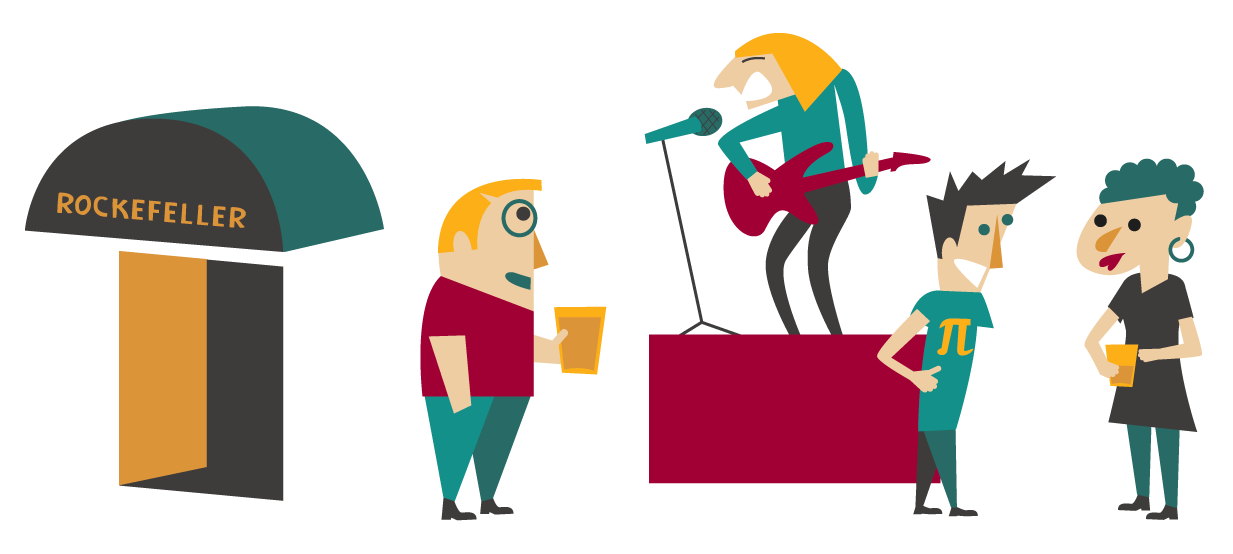
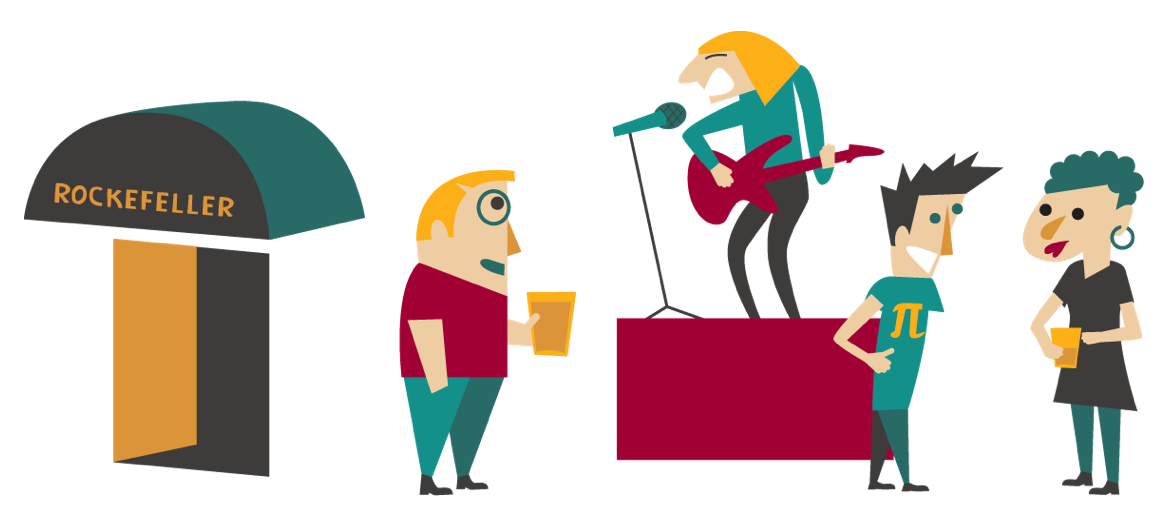
Mer mekking

diff --git a/frontend/content/info.html b/frontend/content/info.html
@@ -14,7 +14,7 @@
                 <span class="color3">Come join us for the adventure!</span>
             </h2>
             <p>Norway is a strange country. And so is our conferences! Every year a group of volunteers called javaBin comes together to create a different conference, something uniquely norwegian.</p>
-            <p>We invite <a href="/speakers.html">more than 150 speakers</a> to enlighten us for three full days. First one whole day dedicated to workhops, and then two full days with both full sessions and lightning talks. Want to see what all the fuss is about? Come join us then!</p>
+            <p>We invite <a href="/speakers.html">more than 150 speakers</a> to enlighten us for three full days. The first day is dedicated to workhops, then we have two full days with talks as well as workshops. Want to see what all the fuss is about? Well, come join us then!</p>
         </div>
         
 <!--         <p>Innhold her: Hva er JavaZone? Hvem kommer på JavaZone? Hvorfor skal man dra på JavaZone - "Whats in it for me?". Hvem lager JavaZone. Hvem er foredragsholderene?</p> -->
@@ -31,7 +31,7 @@
                 So you want to attend JavaZone? <br>
                 <span class="color2">That's awesome! Let's get you a ticket</span>
             </h2>
-            <p>The first step to heaven is to buy your JavaZone ticket. Either buy it yourself, ask your dear beloved boss, or ask the ticket-santa. Whomever buys it for you can buy it in our superfancy high-tech online web-2.0 webshop:</p>
+            <p>The first step to heaven is to buy your JavaZone ticket. Either buy it yourself, ask your dear beloved boss, or ask the ticket-santa. Whomever buys it can do so in our superfancy high-tech online web-2.0 ticketstore.</p>
             <div class="spacex"></div>
             <p>
                 <a href="/tickets.html" class="button"><i class="fa fa-star-o"></i> Buy your ticket now</a>
@@ -63,7 +63,7 @@
                 <span>Conference <br>sept. 11th</span>
             </a>
             <a class="salesbubble" href="#">
-                <span>Food during <br>conference</span>
+                <span>Food <br>bonanza</span>
             </a>
             <a class="salesbubble" href="#">
                 <span>Bragging <br>rights</span>
@@ -75,10 +75,62 @@
 
 
 <div class="tiles">
-    <div class="tile tile-big tile-ill tile-ill-full tile-color0"><div class="tile-inner">
-        <div class="illustration ill-3 animated fadeInDown"></div>
-        <h2 class="first">Flights, hotels, food, drinks… You know, all the practicalities!</h2>
-        <p>Innhold her: Alt av praktisk informasjon: hvor skal man bo, hvor er oslo/oslo spektrum, når/hvor/hva/hvem/hvordan?</p>
+    <div class="tile tile-big tile-ill tile-ill-full tile-color0 tile-pullupxx"><div class="tile-inner">
+        <div class="illustration ill-3"></div>
+        <h2 class="first color2 crazyheader">What, when, how, whyyy? You know, all the practicalities…</h2>
+        <div class="spacexx"></div>
+
+        <div class="infoboxes">
+            <div class="infobox infobox-small">
+                <div class="infobox-icon"><i class="fa fa-map-marker"></i></div>
+                <h3 class="color2">Where's the conference at, yo?</h3>
+                <p>The venue is literary a 2 minutes to walk from the main train station, bus station, trams and taxis (duh!)</p>
+                <p>Feeling lost? Use the <a href="http://reiseplanlegger.ruter.no/en">Travel planner</a>, choose "Oslo Spektrum" as the destination.</p>
+            </div>
+            <div class="infobox infobox-med">
+                <div class="infobox-icon"><i class="fa fa-cutlery"></i></div>
+                <h3 class="color2">"Uten mat og drikke, duger helten ikke"</h3>
+                <p>That's norwegian for "where can I get some food?". The nice thing about JavaZone is that we have the best food of any conference, ever! (we promise)</p>
+                <p>The Flying Culinary Circus are preparing food all day long. No queues, no price, all inclusive, all day long (from 10am)</p>
+            </div>
+            <div class="infobox infobox-small">
+                <div class="infobox-icon"><i class="fa fa-home"></i></div>
+                <h3 class="color2">When tired, where to sleep?</h3>
+                <p>There will be beanbags at the conference. If you prefer a hotel, there are plenty of them in the area around the conference center.</p>
+                <p>Just search for hotels near "Oslo Central Station", and you should be home free!</p>
+            </div>
+
+            <div class="infobox infobox-small">
+                <div class="infobox-icon"><i class="fa fa-cloud"></i></div>
+                <h3 class="color2">More practical info here</h3>
+                <p>The venue is literary a 2 minutes to walk from the main train station, bus station, trams and taxis (duh!)</p>
+                <p>Feeling lost? Use the <a href="http://reiseplanlegger.ruter.no/en">Travel planner</a>, choose "Oslo Spektrum" as the destination.</p>
+            </div>
+            <div class="infobox infobox-med">
+                <div class="infobox-icon"><i class="fa fa-calendar"></i></div>
+                <h3 class="color2">More practical info here</h3>
+                <p>That's norwegian for "where can I get some food?". The nice thing about JavaZone is that we have the best food of any conference, ever! (we promise)</p>
+                <p>The Flying Culinary Circus are preparing food all day long. No queues, no price, all inclusive, all day long (from 10am)</p>
+            </div>
+            <div class="infobox infobox-small">
+                <div class="infobox-icon"><i class="fa fa-comments"></i></div>
+                <h3 class="color2">More practical info here</h3>
+                <p>There will be beanbags at the conference. If you prefer a hotel, there are plenty of them in the area around the conference center.</p>
+                <p>Just search for hotels near "Oslo Central Station", and you should be home free!</p>
+            </div>
+        </div>
+
+
+<!--         <p>Innhold her: Alt av praktisk informasjon: hvor skal man bo, hvor er oslo/oslo spektrum, når/hvor/hva/hvem/hvordan?</p>
+        <p>Lorem ipsum dolor sit amet, consectetur adipiscing elit. Cras adipiscing orci condimentum, adipiscing est id, pellentesque enim. Nunc gravida porttitor eros sit amet placerat.</p> -->
+    </div></div>
+</div>
+
+<div class="tiles">
+    <div class="tile tile-big tile-ill tile-ill-right tile-color0"><div class="tile-inner">
+        <div class="illustration ill-4"></div>
+        <h2 class="first">Registration, badge, stuff like that!</h2>
+        <p>Innhold her: Hvordan henter man billetten? Når skal man møte opp? …</p>
         <p>Lorem ipsum dolor sit amet, consectetur adipiscing elit. Cras adipiscing orci condimentum, adipiscing est id, pellentesque enim. Nunc gravida porttitor eros sit amet placerat.</p>
     </div></div>
 </div>
@@ -89,17 +141,8 @@
     </a></div>
 
 <div class="tiles">
-    <div class="tile tile-big tile-ill tile-ill-right tile-color0"><div class="tile-inner">
-        <div class="illustration ill-4 animated bounceInRight"></div>
-        <h2 class="first">Registration, badge, stuff like that!</h2>
-        <p>Innhold her: Hvordan henter man billetten? Når skal man møte opp? …</p>
-        <p>Lorem ipsum dolor sit amet, consectetur adipiscing elit. Cras adipiscing orci condimentum, adipiscing est id, pellentesque enim. Nunc gravida porttitor eros sit amet placerat.</p>
-    </div></div>
-</div>
-
-<div class="tiles">
     <div class="tile tile-big tile-ill tile-ill-full tile-color0"><div class="tile-inner">
-        <div class="illustration ill-5 animated bounceInDown"></div>
+        <div class="illustration ill-5"></div>
         <h2 class="first">Faglig innhold: Foredrag, program, apps,  språk, lyntaler...</h2>
         <p>Innhold her: Hva er det faglige innholdet på JavaZone? Hvor finner jeg program? Når lanseres programmet? Hva er en lyntale? hva er greia med foredrag på både norsk og engelsk?</p>
         <p>Lorem ipsum dolor sit amet, consectetur adipiscing elit. Cras adipiscing orci condimentum, adipiscing est id, pellentesque enim. Nunc gravida porttitor eros sit amet placerat.</p>
@@ -110,7 +153,7 @@
 
 <div class="tiles">
     <div class="tile tile-big tile-ill tile-ill-right tile-color0"><div class="tile-inner">
-        <div class="illustration ill-6 animated bounceInRight"></div>
+        <div class="illustration ill-6"></div>
         <h2 class="first">Workshops er et relativt nytt konsept...</h2>
         <p>Innhold her: Hva er workshops? hvorfor må man melde seg på? hvor mange plasser har vi? Er det inkludert i prisen? Hva hvis jeg ikke får plass. Osv…</p>
         <p>Lorem ipsum dolor sit amet, consectetur adipiscing elit. Cras adipiscing orci condimentum, adipiscing est id, pellentesque enim. Nunc gravida porttitor eros sit amet placerat.</p>
@@ -120,7 +163,7 @@
 
 <div class="tiles">
     <div class="tile tile-big tile-ill tile-ill-full tile-color0"><div class="tile-inner">
-        <div class="illustration ill-7 animated bounceInLeft"></div>
+        <div class="illustration ill-7"></div>
         <h2 class="first">Work hard, party hard!</h2>
         <p>Innhold her: JavaZone-festen i etterkant av konferansen! Band og øl og morro! Hvor, når, hvordan, billett (inkludert), infoinfoinfo…</p>
         <p>Lorem ipsum dolor sit amet, consectetur adipiscing elit. Cras adipiscing orci condimentum, adipiscing est id, pellentesque enim. Nunc gravida porttitor eros sit amet placerat.</p>
@@ -130,7 +173,7 @@
 
 <div class="tiles">
     <div class="tile tile-big tile-ill tile-ill-full tile-color0"><div class="tile-inner">
-        <div class="illustration ill-8 animated bounceInLeft"></div>
+        <div class="illustration ill-8"></div>
     </div></div>
 </div>
 

diff --git a/frontend/content/assets/css/ill.css b/frontend/content/assets/css/ill.css
@@ -4,7 +4,7 @@
 .ill-4 { background-image:url("/assets/img/ill/ill4.png"); width:17.22222em; height:28.38888em; background-size: 17.22222em 28.38888em; }
 .ill-5 { background-image:url("/assets/img/ill/ill5.png"); width:65.27777em; height:20.22222em; background-size: 65.27777em 20.22222em; }
 .ill-6 { background-image:url("/assets/img/ill/ill6.png"); width:34.22222em; height:25.05555em; background-size: 34.22222em 25.05555em; }
-.ill-7 { background-image:url("/assets/img/ill/ill7.png"); width:68.50000em; height:30.77777em; background-size: 68.50000em 30.77777em; }
+.ill-7 { background-image:url("/assets/img/ill/ill7.png"); width:65.11111em; height:29.27777em; background-size: 65.11111em 29.27777em; }
 .ill-8 { background-image:url("/assets/img/ill/ill8.png"); width:63.00000em; height:24.50000em; background-size: 63.00000em 24.50000em; }
 
 
@@ -22,7 +22,9 @@
 
 .tile-ill {  }
 .tile-ill .tile-inner { height:auto; }
-.tile-ill .tile-inner h2 {  font-size: 2.5em; margin-bottom: .5em; line-height: 1.2; font-weight: 400; font-family: 'Londrina Solid', cursive; }
+.tile-ill .tile-inner h2, .tile-ill .tile-inner h3 { line-height: 1.2; font-weight: 400; font-family: 'Londrina Solid', cursive; }
+.tile-ill .tile-inner h2 {  font-size: 2.5em; margin: 0 0 .5em 0;  }
+.tile-ill .tile-inner h3 {  font-size: 1.2em; margin: 0 0 .5em 0;  }
 .tile-ill .tile-inner p { font-size: 1.1em; color: #eee !important; font-weight: 300; line-height: 1.4; }
 
 .tile-ill .tile-inner .color1 { color: #fcaf17 !important; }
@@ -43,7 +45,12 @@
     Mørkegrønn: 286a65;
     Svart:      101010;*/
 
-.salesbubbles {
+.crazyheader {
+	transform:rotate(7deg);
+	-ms-transform:rotate(7deg);
+	-webkit-transform:rotate(-2.5deg);
+	margin: -2.4em 0 0 1em !important;
+	background: transparent !important;
 }
 
 .salesbubbles .salesbubble {
@@ -51,7 +58,7 @@
 	float: left;
 	width: 6em;
 	height: 6em;
-	margin: 2em 1.6em;
+	margin: 2em 1.5em;
 	padding: 1em;
 	text-align: center;
 	border: 3px solid #fcaf17;
@@ -73,7 +80,35 @@
 	line-height: 1.5;
 }
 
+.infoboxes .infobox {
+	float: left;
+	padding: 1.5em;
+	margin: 0 0 1em 0;
 
+	-webkit-box-sizing: border-box;
+	-moz-box-sizing: border-box;
+	box-sizing: border-box;
+}
+.infoboxes .infobox h3 {
+	text-align: center;
+}
+.infoboxes .infobox p {
+	font-size: .9em;
+}
+
+.infoboxes .infobox .infobox-icon {
+	text-align: center;
+	margin: 0 0 .6em 0;
+}
+.infoboxes .infobox .infobox-icon i {
+	background: #149089;
+	border-radius: 200px;
+	font-size: 2em;
+	padding: .4em;
+}
+
+.infoboxes .infobox-small { width: 30%; }
+.infoboxes .infobox-med { width: 40%; }
 
 
 

diff --git a/frontend/content/assets/css/screen.css b/frontend/content/assets/css/screen.css
@@ -503,6 +503,10 @@ a.quotes .quotee { color: #ccc; text-align: right; font-size: .9em; }
 .spacexxxxx { height: 10em; }
 
 
+.tile-pullupx { margin-top: -2em; }
+.tile-pullupxx { margin-top: -4em; }
+.tile-pullupxxx { margin-top: -6em; }
+
 @media only screen and (max-width: 1350px) {
     body { font-size:16px; }
 }
